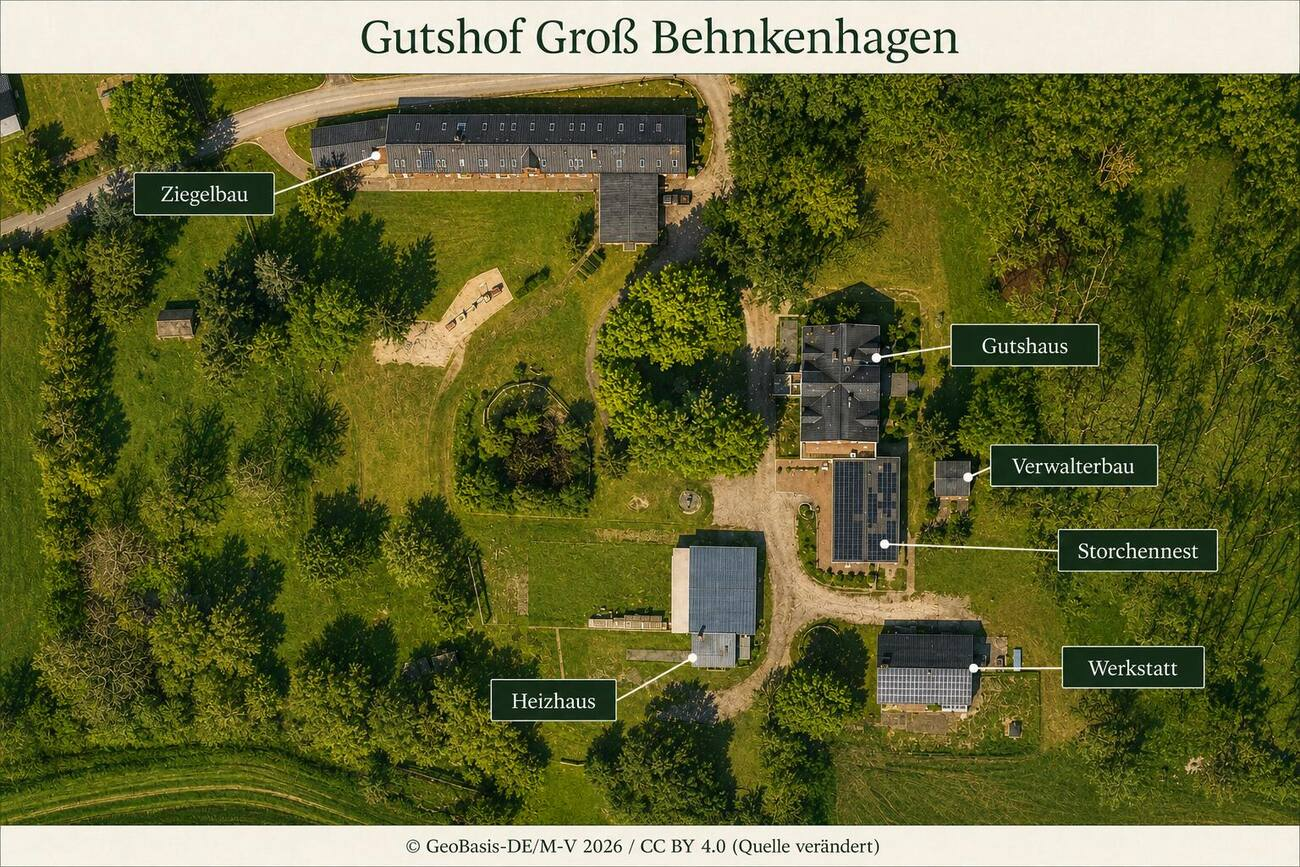
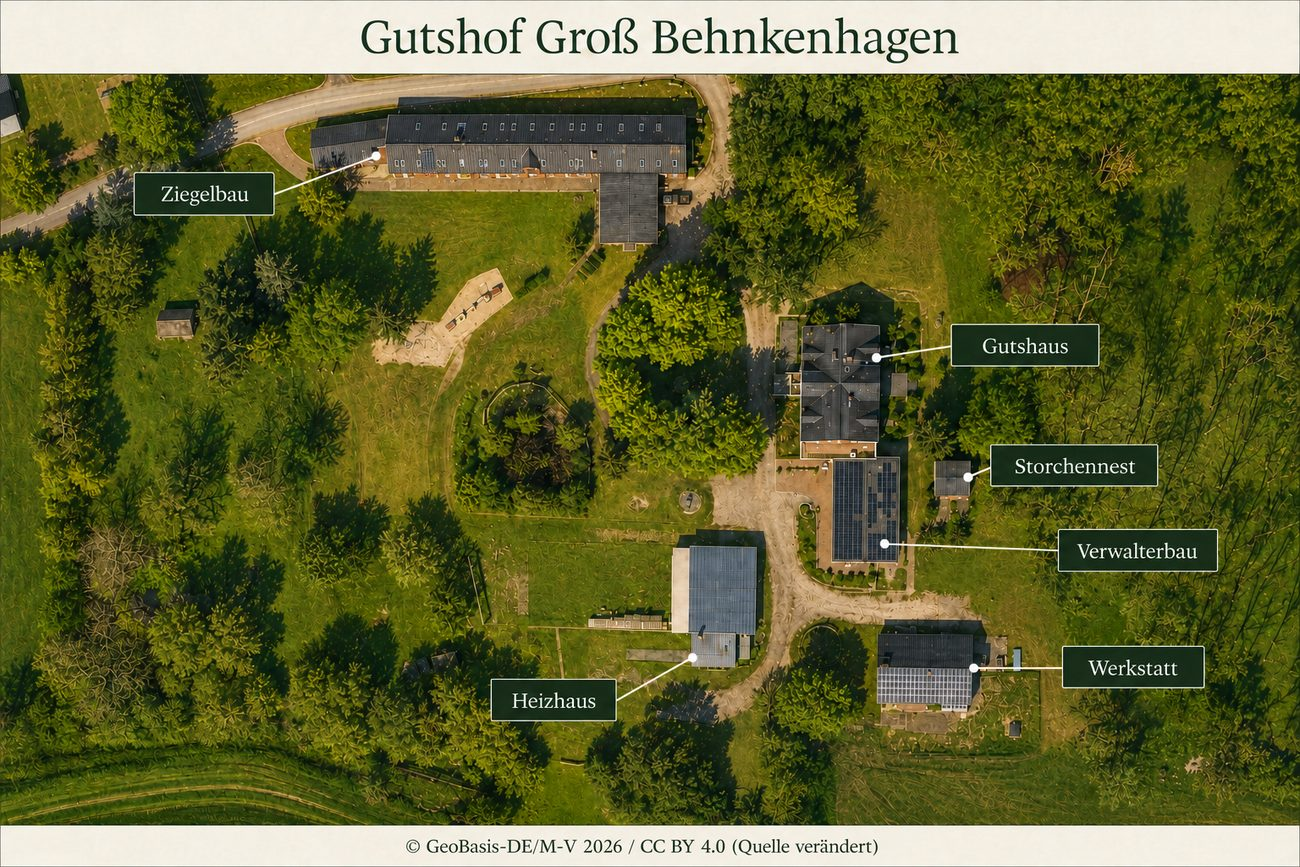
Add files via upload

diff --git a/404.html b/404.html
@@ -1,0 +1,78 @@
+<!DOCTYPE html>
+<html lang="de">
+<head>
+<meta charset="UTF-8">
+<meta name="viewport" content="width=device-width, initial-scale=1">
+<title>Seite nicht gefunden | Monteurunterkünfte Gutshof Groß-Behnkenhagen</title>
+<meta name="robots" content="noindex, follow">
+<meta name="theme-color" content="#33432e">
+<link rel="icon" href="/favicon.svg" type="image/svg+xml">
+<style>
+  :root{
+    --ink:#20261f;--paper:#f4f1e9;--forest:#33432e;--clay:#b8552f;--clay-d:#94411f;
+    --line:#ddd6c7;--muted:#5c6157;
+  }
+  *{box-sizing:border-box;margin:0;padding:0}
+  body{font-family:"Inter",-apple-system,BlinkMacSystemFont,"Segoe UI",Roboto,sans-serif;
+    color:var(--ink);background:var(--paper);line-height:1.65;-webkit-font-smoothing:antialiased;
+    min-height:100vh;display:flex;flex-direction:column}
+  h1{font-family:Georgia,"Times New Roman",serif;letter-spacing:-.01em;line-height:1.12;
+    font-size:clamp(2rem,5vw,3rem);font-weight:700}
+  .topbar{background:var(--ink);color:var(--paper);font-size:.92rem}
+  .topbar .wrap{display:flex;justify-content:space-between;align-items:center;gap:16px;
+    padding:11px 24px;flex-wrap:wrap}
+  .topbar a{color:var(--paper);text-decoration:none;font-weight:700}
+  .topbar .phone{font-size:1.08rem;color:#f0d9b8;display:inline-flex;align-items:center;
+    min-height:44px;padding:0 4px}
+  .wrap{max-width:1120px;margin:0 auto;padding:0 24px;width:100%}
+  main{flex:1;display:grid;place-items:center;padding:72px 0}
+  .box{max-width:60ch;text-align:center}
+  .code{font-family:Georgia,serif;font-size:4.5rem;color:var(--forest);line-height:1}
+  .box p{margin-top:18px;color:var(--muted);font-size:1.05rem}
+  .box p.alt{margin-top:10px;font-size:.95rem}
+  .cta-row{display:flex;gap:14px;flex-wrap:wrap;justify-content:center;margin-top:32px}
+  .btn{display:inline-block;padding:16px 28px;border-radius:3px;font-weight:800;
+    text-decoration:none;font-size:1.02rem;border:2px solid transparent}
+  .btn-primary{background:var(--clay);color:#fff}
+  .btn-primary:hover{background:var(--clay-d)}
+  .btn-ghost{border-color:var(--forest);color:var(--forest)}
+  .btn-ghost:hover{background:var(--forest);color:var(--paper)}
+  footer{background:var(--ink);color:#b3b8a9;font-size:.9rem}
+  footer .wrap{padding:24px;display:flex;gap:18px;flex-wrap:wrap;justify-content:space-between}
+  footer a{color:#e7e2d6;text-decoration:none}
+</style>
+</head>
+<body>
+
+<div class="topbar">
+  <div class="wrap">
+    <a href="/">Gutshof Groß-Behnkenhagen</a>
+    <a class="phone" href="tel:+4938316153005">03831 6153005</a>
+  </div>
+</div>
+
+<main>
+  <div class="wrap">
+    <div class="box">
+      <div class="code">404</div>
+      <h1>Diese Seite gibt es nicht</h1>
+      <p>Der Link ist veraltet oder die Adresse enthält einen Tippfehler. Auf der Startseite finden Sie alle Unterkünfte und das Anfrageformular.</p>
+      <p class="alt">This page does not exist. Please return to the homepage.<br>
+      Ta strona nie istnieje. Prosimy wrócić na stronę główną.</p>
+      <div class="cta-row">
+        <a class="btn btn-primary" href="/">Zur Startseite</a>
+        <a class="btn btn-ghost" href="tel:+4938316153005">03831 6153005 anrufen</a>
+      </div>
+    </div>
+  </div>
+</main>
+
+<footer>
+  <div class="wrap">
+    <span>MV Immoservice GmbH · Groß-Behnkenhagen 23 · 18519 Sundhagen</span>
+    <span><a href="/impressum.html">Impressum</a> · <a href="/datenschutz.html">Datenschutz</a></span>
+  </div>
+</footer>
+
+</body>
+</html>
